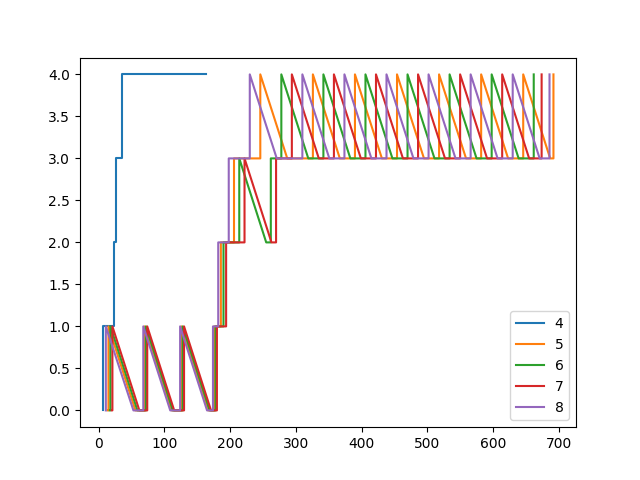
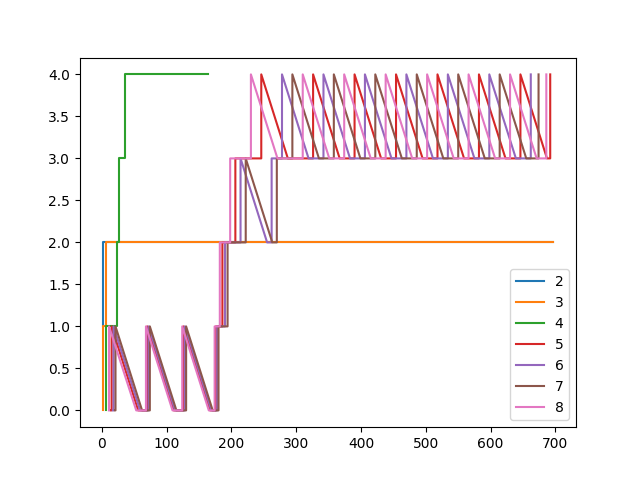
Added better demo for graph

diff --git a/graph.py b/graph.py
@@ -15,7 +15,8 @@ inp = LOGS.strip().split("\n")
 
 GRAPH_DATA = {}
 
-ignore = [ "0", "1", "2", "3" ]
+#ignore = [ "0", "1", "2", "3" ]
+ignore = [ "0" ]
 
 re_ticks = re.compile(r"\[([^]]*)\]")
 re_pid = re.compile(r"\{([^]]*)\}")
